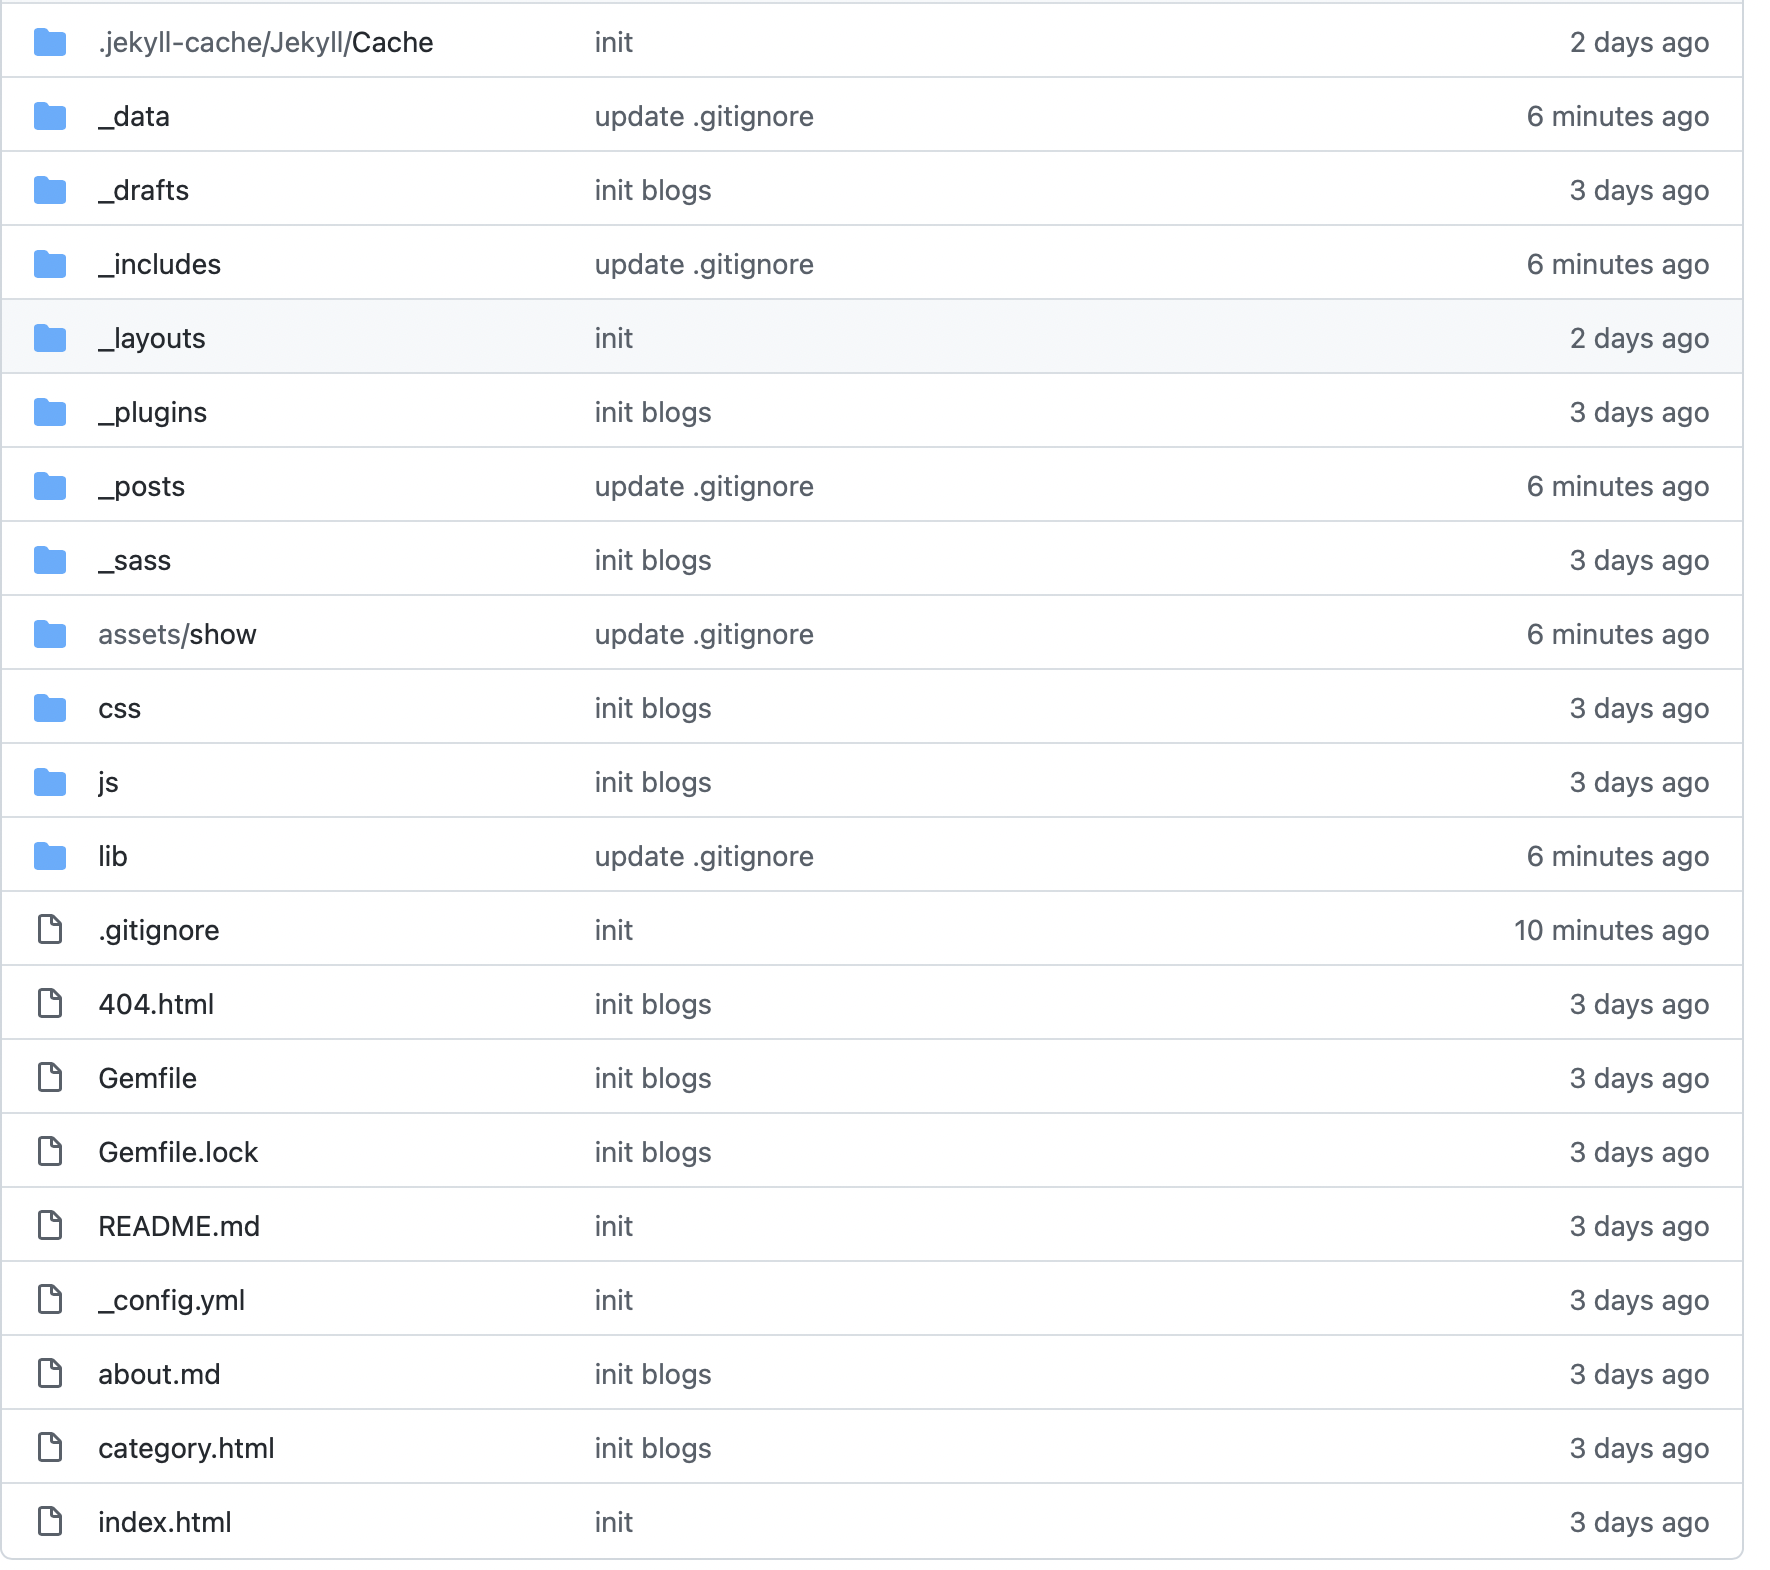
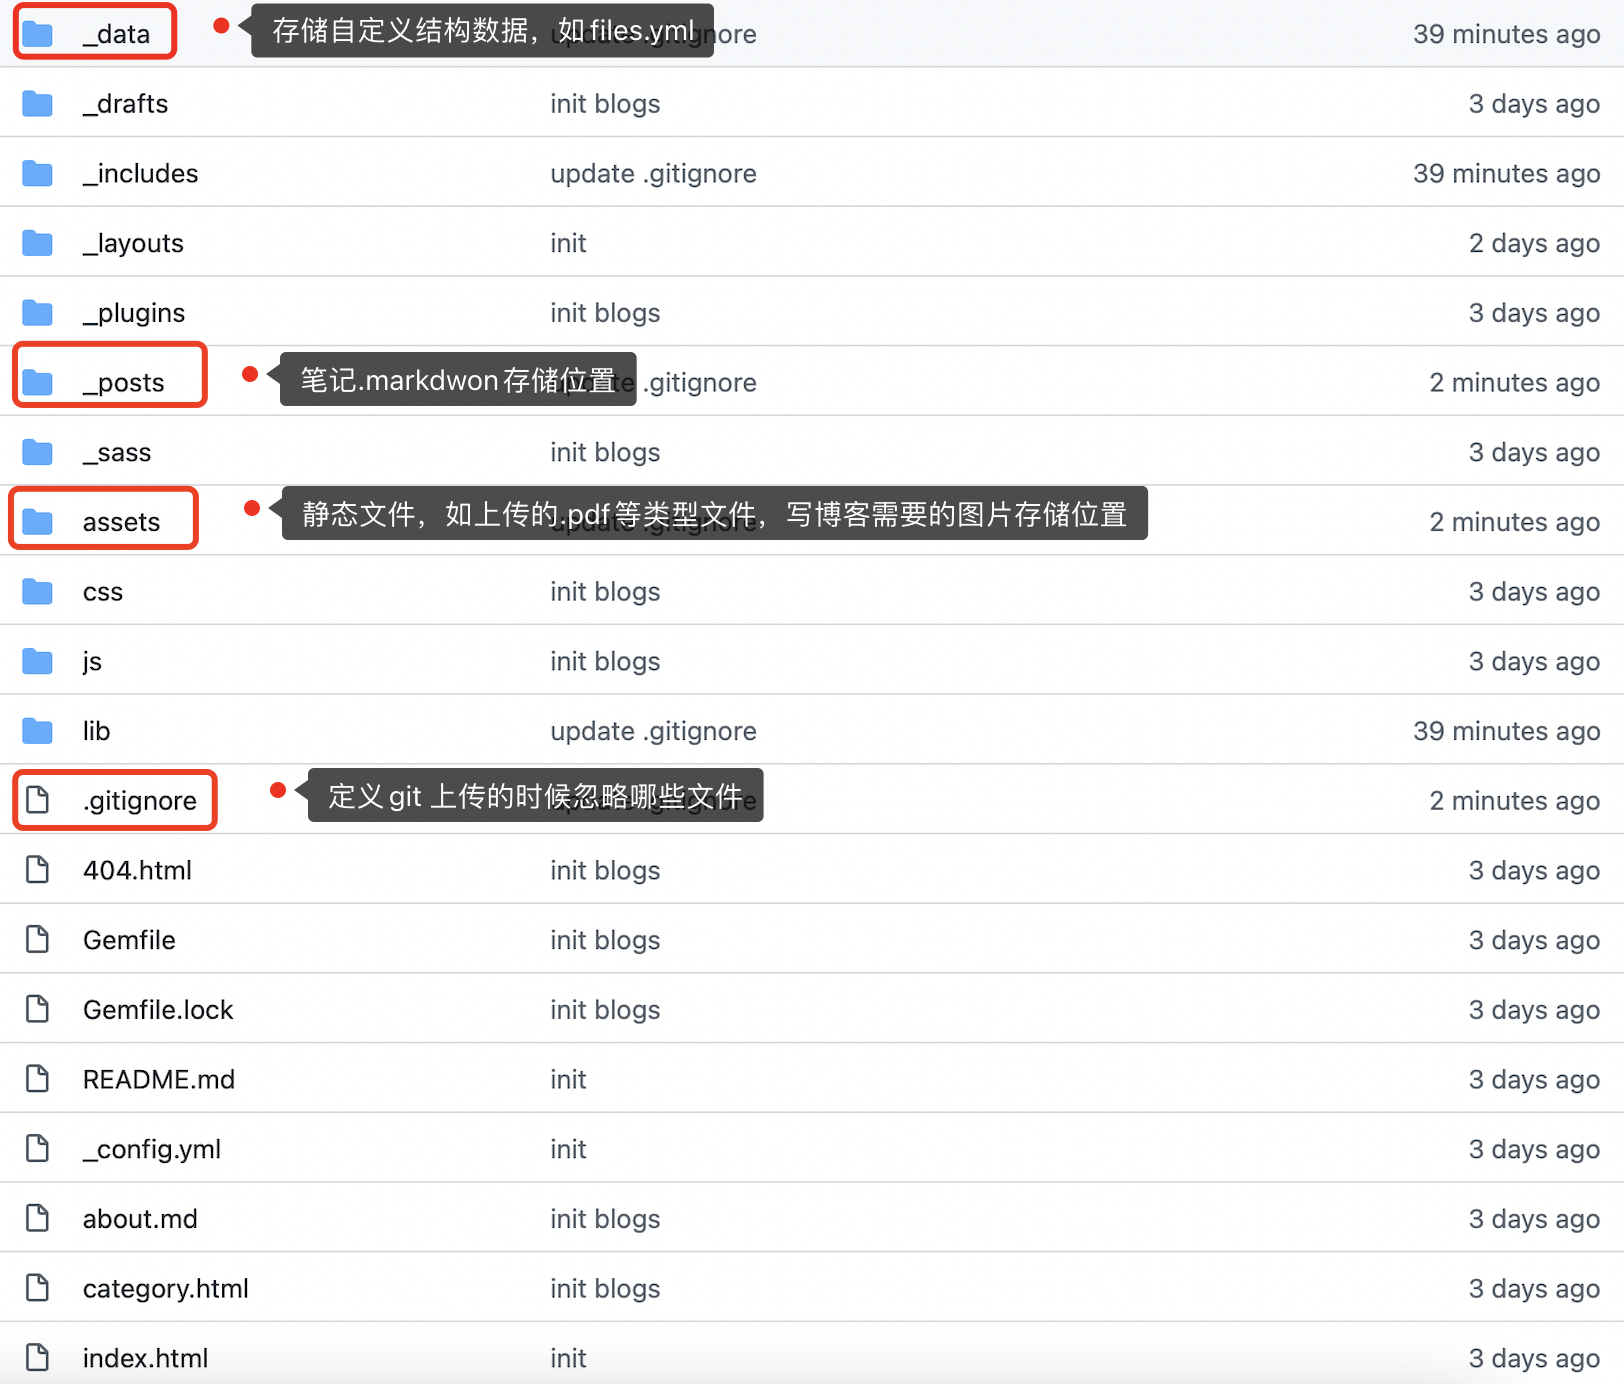
how to upload notes

diff --git a/_posts/2021-11-07-How-to-upload-notes-and-other-files.md b/_posts/2021-11-07-How-to-upload-notes-and-other-files.md
@@ -4,9 +4,29 @@ title: 如何上传笔记及其他文件
 date: 2021-10-04
 category: "Others"
 author: LiHan
+tags: [blog维护]
 ---
 
 ## 文件目录结构说明
 
-<img src="{{ '/assets/imgs/How-to-upload-notes-and-other-files/1.png' | relative_url }}" style="zoom:50%;">
+<img src="{{ '/assets/imgs/How-to-upload-notes-and-other-files/1.png' | relative_url }}" style="zoom:100%;">
+
+## 上传文件
+
+<img src="{{ '/assets/imgs/How-to-upload-notes-and-other-files/2.png' | relative_url }}" style="zoom:100%;">
+
+<img src="{{ '/assets/imgs/How-to-upload-notes-and-other-files/3.png' | relative_url }}" style="zoom:100%;">
+
+## 上传笔记
+
+<img src="{{ '/assets/imgs/How-to-upload-notes-and-other-files/4.png' | relative_url }}" style="zoom:100%;">
+
+<img src="{{ '/assets/imgs/How-to-upload-notes-and-other-files/5.png' | relative_url }}" style="zoom:100%;">
+
+## 提示
+
+1. 做出修改之后，GitHub page需要一小段时间才会更新，多刷新几次；
+2. 搭建过程使用了GitHub page + Jekyll，本文没有对其他文件进行说明。因为如果仅做上传操作，不需要了解其他，如果想要自定义更多内容 (如在blog中增加自定义 js/css)，请查看Jekyll官方文档了解其他文件；
+3. 上文展示的是简易版本，当然也可以选择git  clone到本地之后做修改然后push，需要修改的文件位置，格式规定等与简易版本相同；如果clone到本地，可以用`jekyll serve`在本地预览后再push；
+4. git上传的忽略规则在根目录下的`.gitignore`，忽略一些不建议上传的文件 (如MacOS下产生的`.DS_Store`) 。如果有另外需要忽视的文件，请更新此规则。
 
